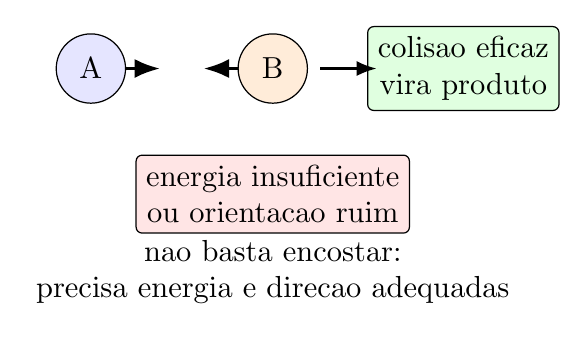
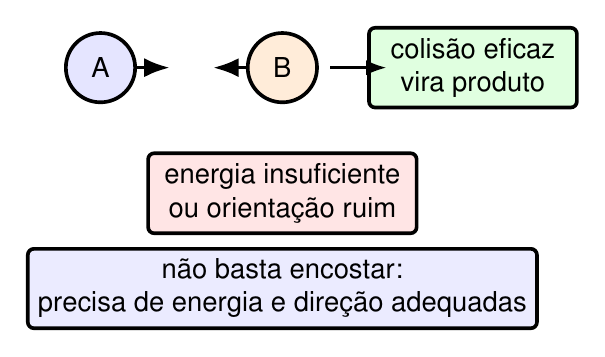
Padroniza regras visuais de TikZ didatico

Changed region(s): [[0.0307, 0.4106, 0.8908, 0.9384], [0.3379, 0.0587, 0.9829, 0.3519], [0.0922, 0.088, 0.2765, 0.3226]]

diff --git a/Quimica/9ano/unidade-4-velocidade-e-combustao/figuras_cap01_velocidade-das-reacoes.tex b/Quimica/9ano/unidade-4-velocidade-e-combustao/figuras_cap01_velocidade-das-reacoes.tex
@@ -1,31 +1,56 @@
 \documentclass[tikz,border=3mm,multi=tikzpicture]{standalone}
+\usepackage[utf8]{inputenc}
+\usepackage[T1]{fontenc}
+\usepackage{helvet}
+\renewcommand{\familydefault}{\sfdefault}
 \usepackage{tikz}
 \usetikzlibrary{arrows.meta,positioning,calc}
 \begin{document}
-\begin{tikzpicture}[>=Latex,node distance=0.9cm]
-  \tikzstyle{box}=[draw,rounded corners=2pt,very thick,minimum width=2.7cm,minimum height=0.8cm,align=center]
-  \node[box,fill=blue!10] (reag) {reagentes};
-  \node[box,fill=green!12,right=1.4cm of reag] (prod) {produtos};
-  \draw[very thick,->] (reag) -- (prod) node[midway,above] {tempo};
-  \node[box,fill=red!10,below=1.0cm of reag] (temp) {temperatura\\maior energia};
-  \node[box,fill=orange!12,right=0.5cm of temp] (conc) {concentracao\\mais particulas};
-  \node[box,fill=yellow!18,right=0.5cm of conc] (sup) {superficie\\mais contato};
-  \node[box,fill=purple!10,below=0.8cm of conc] (cat) {catalisador\\caminho mais facil};
-  \draw[thick,->] (temp.north) -- (reag.south);
-  \draw[thick,->] (conc.north) -- ($(reag)!0.5!(prod)$);
-  \draw[thick,->] (sup.north) -- (prod.south);
-  \draw[thick,->] (cat.north) -- (conc.south);
-  \node[align=center] at (2.2,-3.1) {fatores mudam a frequencia e a eficacia das colisoes};
+\begin{tikzpicture}[>=Latex,font=\sffamily\small]
+  \tikzstyle{head}=[font=\sffamily\bfseries\small,align=center]
+  \tikzstyle{factor}=[draw,rounded corners=2pt,very thick,minimum width=2.9cm,minimum height=0.78cm,align=center]
+  \tikzstyle{effect}=[draw,rounded corners=2pt,thick,minimum width=3.4cm,minimum height=0.78cm,align=center,fill=gray!8]
+  \tikzstyle{result}=[draw,rounded corners=2pt,very thick,minimum width=3.1cm,minimum height=0.78cm,align=center,fill=green!12]
+
+  \node[head] at (0,0.85) {fator};
+  \node[head] at (3.8,0.85) {o que muda};
+  \node[head] at (7.6,0.85) {efeito na reação};
+
+  \node[factor,fill=red!10] (temp) at (0,0) {temperatura};
+  \node[effect] (tempE) at (3.8,0) {partículas com\\mais energia};
+  \node[result] (tempR) at (7.6,0) {mais colisões\\eficazes};
+
+  \node[factor,fill=orange!12] (conc) at (0,-1.15) {concentração};
+  \node[effect] (concE) at (3.8,-1.15) {mais partículas\\por volume};
+  \node[result] (concR) at (7.6,-1.15) {mais encontros\\entre partículas};
+
+  \node[factor,fill=yellow!18] (sup) at (0,-2.30) {superfície};
+  \node[effect] (supE) at (3.8,-2.30) {maior área\\exposta};
+  \node[result] (supR) at (7.6,-2.30) {mais contato\\com reagentes};
+
+  \node[factor,fill=purple!10] (cat) at (0,-3.45) {catalisador};
+  \node[effect] (catE) at (3.8,-3.45) {menor energia\\de ativação};
+  \node[result] (catR) at (7.6,-3.45) {caminho\\mais fácil};
+
+  \foreach \a/\b/\c in {temp/tempE/tempR,conc/concE/concR,sup/supE/supR,cat/catE/catR}{
+    \draw[->,thick] (\a) -- (\b);
+    \draw[->,thick] (\b) -- (\c);
+  }
+
+  \node[draw,rounded corners=2pt,fill=blue!8,very thick,align=center,minimum width=6.2cm,minimum height=0.75cm]
+    at (3.8,-4.65) {em geral, aumenta a velocidade quando cresce o número de colisões eficazes};
 \end{tikzpicture}
 
-\begin{tikzpicture}[x=1cm,y=1cm,>=Latex]
-  \node[draw,circle,fill=blue!10,minimum size=0.8cm] (a) at (0,0.8) {A};
-  \node[draw,circle,fill=orange!15,minimum size=0.8cm] (b) at (2.1,0.8) {B};
+\begin{tikzpicture}[x=1cm,y=1cm,>=Latex,every node/.style={font=\sffamily\small}]
+  \tikzstyle{particle}=[draw,circle,very thick,minimum size=0.8cm,align=center]
+  \tikzstyle{box}=[draw,rounded corners=2pt,very thick,align=center,minimum height=0.78cm]
+  \node[particle,fill=blue!10] (a) at (0,0.8) {A};
+  \node[particle,fill=orange!15] (b) at (2.1,0.8) {B};
   \draw[->,very thick] (a) -- (0.8,0.8);
   \draw[->,very thick] (b) -- (1.3,0.8);
-  \node[draw,rounded corners=2pt,fill=green!12,align=center] at (4.3,0.8) {colisao eficaz\\vira produto};
+  \node[box,fill=green!12,minimum width=2.4cm] at (4.3,0.8) {colisão eficaz\\vira produto};
   \draw[->,thick] (2.65,0.8) -- (3.3,0.8);
-  \node[draw,rounded corners=2pt,fill=red!10,align=center] at (2.1,-0.65) {energia insuficiente\\ou orientacao ruim};
-  \node[align=center] at (2.1,-1.55) {nao basta encostar:\\precisa energia e direcao adequadas};
+  \node[box,fill=red!10,minimum width=3.1cm] at (2.1,-0.65) {energia insuficiente\\ou orientação ruim};
+  \node[box,fill=blue!8,minimum width=4.3cm] at (2.1,-1.75) {não basta encostar:\\precisa de energia e direção adequadas};
 \end{tikzpicture}
 \end{document}

diff --git a/_tools/auditar_tikz_didatico.py b/_tools/auditar_tikz_didatico.py
@@ -1,0 +1,77 @@
+#!/usr/bin/env python3
+"""Auditoria leve de padrões visuais em fontes TikZ ativas.
+
+Este script não substitui revisão visual do PNG. Ele apenas encontra sinais
+rápidos de risco antes da revisão humana: falta de fonte sans-serif e palavras
+comuns em português sem acento em rótulos didáticos.
+"""
+
+from __future__ import annotations
+
+from pathlib import Path
+
+
+ROOT = Path(__file__).resolve().parents[1]
+
+PALAVRAS_SEM_ACENTO = {
+    "ativacao": "ativação",
+    "colisao": "colisão",
+    "concentracao": "concentração",
+    "direcao": "direção",
+    "distancia": "distância",
+    "eficacia": "eficácia",
+    "facil": "fácil",
+    "frequencia": "frequência",
+    "moleculas": "moléculas",
+    "nao": "não",
+    "orientacao": "orientação",
+    "particulas": "partículas",
+    "posicao": "posição",
+    "reacao": "reação",
+    "superficie": "superfície",
+}
+
+
+def fontes_tikz() -> list[Path]:
+    return sorted(
+        p
+        for p in ROOT.glob("**/figuras_cap*.tex")
+        if "_legado" not in p.parts
+    )
+
+
+def tem_fonte_sans(texto: str) -> bool:
+    marcadores = ("\\sffamily", "helvet", "sfdefault", "font=\\sffamily", "every node/.style={font=\\sffamily")
+    return any(m in texto for m in marcadores)
+
+
+def main() -> int:
+    problemas = 0
+    for path in fontes_tikz():
+        texto = path.read_text(encoding="utf-8", errors="replace")
+        achados: list[str] = []
+
+        if not tem_fonte_sans(texto):
+            achados.append("fonte-sans-ausente")
+
+        lower = texto.lower()
+        sem_acento = [
+            f"{sem}->{com}"
+            for sem, com in PALAVRAS_SEM_ACENTO.items()
+            if sem in lower and com not in lower
+        ]
+        if sem_acento:
+            achados.append("possivel-acento: " + ", ".join(sem_acento))
+
+        if achados:
+            problemas += 1
+            rel = path.relative_to(ROOT)
+            print(f"{rel}: {'; '.join(achados)}")
+
+    print(f"\nfontes analisadas: {len(fontes_tikz())}")
+    print(f"fontes com alerta: {problemas}")
+    return 1 if problemas else 0
+
+
+if __name__ == "__main__":
+    raise SystemExit(main())

diff --git a/_tools/PLANO_REVISAO_TIKZ_DIDATICO.md b/_tools/PLANO_REVISAO_TIKZ_DIDATICO.md
@@ -1,0 +1,61 @@
+# Plano de Revisão Visual TikZ Didático
+
+## Objetivo
+
+Revisar todas as imagens TikZ ativas do repositório para aplicar o padrão visual didático definido em `_tools/CONVENCAO_TIKZ.md`: acentuação correta, fonte sans-serif, hierarquia visual clara, cores funcionais, layout pesquisado e PNG renderizado sem sobreposição.
+
+## Escopo inicial
+
+- Fontes TikZ ativas: `figuras_cap*.tex` fora de `_legado/`.
+- PNGs ativos: `*/figuras/*_tikz-*.png` fora de `_legado/`.
+- Levantamento atual: 61 fontes TikZ e 159 PNGs ativos.
+
+## Ordem de execução
+
+1. Inventariar as figuras por disciplina, ano, unidade e capítulo.
+2. Rodar `_tools/auditar_tikz_didatico.py` para localizar riscos rápidos: fonte não padronizada e palavras comuns sem acento.
+3. Para cada família de diagrama, pesquisar uma referência visual antes de redesenhar:
+   - comparação de fatores: matriz/grade;
+   - processo: fluxo linear;
+   - ciclo: diagrama circular;
+   - classificação: árvore/hierarquia;
+   - gráfico: eixo/escala;
+   - estrutura: esquema rotulado.
+4. Ajustar o `.tex` com:
+   - fonte sans-serif;
+   - acentuação correta em português;
+   - rótulos curtos;
+   - alinhamento em grade;
+   - cores com função;
+   - sem setas cruzadas;
+   - sem texto sobreposto.
+5. Renderizar novamente os PNGs.
+6. Revisar visualmente os PNGs renderizados.
+7. Validar que os links raw dos capítulos apontam para PNGs existentes.
+8. Commitar por lote de disciplina para reduzir risco e facilitar revisão.
+
+## Critérios de aceite por figura
+
+- O PNG renderizado está legível em tamanho normal de apostila.
+- Nenhum texto fica fora da caixa ou sobre outro elemento.
+- Não há setas cruzadas ou ambíguas.
+- Todas as palavras em português estão acentuadas corretamente.
+- A fonte dos rótulos é sans-serif.
+- A imagem usa no máximo a complexidade necessária para explicar o conceito.
+- A hierarquia visual distingue título, fator/etapa, explicação e resultado.
+- O Markdown do capítulo referencia o PNG correto por URL raw.
+
+## Lotes sugeridos
+
+1. Química unidade 4, porque já iniciou o novo padrão.
+2. Física unidade 4, por ter muitos diagramas conceituais e de circuito.
+3. Biologia unidade 4, por ter esquemas de processos e genética.
+4. Geometria unidade 4, por ter maior volume de figuras e maior risco de inconsistência visual.
+5. Demais disciplinas com TikZ ativo.
+
+## Observações operacionais
+
+- Não alterar conteúdo conceitual junto com redesenho visual, salvo erro evidente.
+- Se uma figura já estiver clara, apenas padronizar fonte/acentos/renderização.
+- Se uma figura estiver confusa, redesenhar a partir do objetivo pedagógico, não remendar o layout antigo.
+- Após cada lote, rodar validação de links raw e revisar `git diff --stat`.

diff --git a/_tools/CONVENCAO_TIKZ.md b/_tools/CONVENCAO_TIKZ.md
@@ -116,6 +116,52 @@ Use no `.tex`:
 - **Reuso**: se a mesma figura aparece em capítulos diferentes (ex.: eixo cartesiano simples), referencie o mesmo PNG nos dois `.md`.
 - **Acessibilidade**: sempre escreva `alt text` descritivo no `![alt](...)` do markdown.
 
+## Padrão visual didático obrigatório
+
+Antes de criar ou redesenhar qualquer TikZ didático, faça uma busca rápida por referências do tipo de diagrama que será usado. A decisão visual deve seguir o objetivo pedagógico, não a aparência:
+
+| Objetivo pedagógico | Padrão preferencial |
+|---|---|
+| Comparar fatores, propriedades ou efeitos | matriz/tabela visual em grade |
+| Mostrar processo sequencial | fluxo linear em uma direção |
+| Mostrar causa e consequência | cadeia causal esquerda → direita |
+| Mostrar ciclo | ciclo circular com poucas etapas |
+| Mostrar classificação | árvore ou mapa hierárquico |
+| Mostrar grandezas matemáticas | eixo, gráfico ou escala |
+| Mostrar estrutura química/física | esquema rotulado com setas mínimas |
+
+Regras visuais obrigatórias:
+
+- Usar **acentuação correta em português** em todos os rótulos do TikZ. A exceção continua sendo apenas texto dentro de `$$...$$`, que deve evitar acentos por compatibilidade com AutoLaTeX/CodeCogs.
+- Usar fonte **sans-serif** nos rótulos dos diagramas. Nos arquivos standalone, incluir:
+
+```latex
+\usepackage[utf8]{inputenc}
+\usepackage[T1]{fontenc}
+\usepackage{helvet}
+\renewcommand{\familydefault}{\sfdefault}
+```
+
+e aplicar `font=\sffamily\small` ou `every node/.style={font=\sffamily\small}` no `tikzpicture`.
+- Manter fluxo de leitura único: esquerda → direita ou cima → baixo. Não misturar direções no mesmo diagrama.
+- Evitar setas cruzadas, diagonais longas desnecessárias e linhas passando por texto.
+- Usar rótulos curtos, com quebras de linha controladas.
+- Garantir espaço em branco entre caixas, títulos e legendas.
+- Usar cores com função didática: categoria, etapa, contraste ou resultado. Não usar cor como enfeite.
+- Revisar o PNG renderizado, não apenas o `.tex`, antes de considerar a figura pronta.
+- Se o PNG parecer "embolado", substituir o desenho por um padrão mais simples, normalmente matriz/grade ou fluxo linear.
+
+Checklist de aprovação visual:
+
+- O aluno sabe onde começar a leitura?
+- A imagem segue uma direção de leitura previsível?
+- Alguma caixa encosta ou passa sobre texto?
+- Há setas cruzadas ou ambíguas?
+- Os textos têm acentuação correta?
+- A fonte combina com o material impresso/digital?
+- A figura explica algo que seria pior só em texto?
+- O conceito central fica mais claro em até 10 segundos?
+
 ---
 
 ## Limites editoriais

diff --git a/Quimica/_autor/CLAUDE.md b/Quimica/_autor/CLAUDE.md
@@ -6,6 +6,10 @@
 
 ---
 
+## Regra global para TikZ didático
+
+Antes de criar ou alterar qualquer imagem TikZ, aplicar o padrão de `_tools/CONVENCAO_TIKZ.md`: pesquisar referência visual para o tipo de diagrama, usar fonte sans-serif, manter acentuação correta em português, organizar a leitura em fluxo único, evitar setas cruzadas/sobreposição e revisar o PNG renderizado antes de considerar a figura pronta.
+
 ## Identidade editorial de Química
 
 Material **expositivo-conceitual** para EF II (6º–9º ano) e Ensino Médio (1ª, 2ª e 3ª séries). O capítulo apresenta conceitos químicos com rigor científico, ancorando-os no cotidiano e em fenômenos observáveis, e fecha com aplicações práticas, conexão bíblica e síntese tabular. **Não é material de exercícios** — exercícios resolvidos aparecem **dentro** dos subtópicos quando a complexidade exige cálculo, mas não há bloco "Sua Parte" nem listas de exercícios ao final.

diff --git a/Matematica/_autor/CLAUDE.md b/Matematica/_autor/CLAUDE.md
@@ -6,6 +6,10 @@
 
 ---
 
+## Regra global para TikZ didático
+
+Antes de criar ou alterar qualquer imagem TikZ, aplicar o padrão de `_tools/CONVENCAO_TIKZ.md`: pesquisar referência visual para o tipo de diagrama, usar fonte sans-serif, manter acentuação correta em português, organizar a leitura em fluxo único, evitar setas cruzadas/sobreposição e revisar o PNG renderizado antes de considerar a figura pronta.
+
 ## Identidade editorial de Matemática 1
 
 Material **expositivo-aplicado** — conceito → explicação → exemplo resolvido. O capítulo apresenta o conceito de forma direta, mostra a fórmula em LaTeX (quando houver) e resolve **exercícios passo a passo** integrados ao fluxo. Não é caderno de exercícios livres — os exercícios resolvidos servem para o aluno **ver a progressão do cálculo**, não para praticar (a prática mora em outro material).

diff --git a/Biologia/_autor/CLAUDE.md b/Biologia/_autor/CLAUDE.md
@@ -6,6 +6,10 @@
 
 ---
 
+## Regra global para TikZ didático
+
+Antes de criar ou alterar qualquer imagem TikZ, aplicar o padrão de `_tools/CONVENCAO_TIKZ.md`: pesquisar referência visual para o tipo de diagrama, usar fonte sans-serif, manter acentuação correta em português, organizar a leitura em fluxo único, evitar setas cruzadas/sobreposição e revisar o PNG renderizado antes de considerar a figura pronta.
+
 ## Identidade editorial de Biologia
 
 Material **expositivo-investigativo** para 9º ano EF II e Ensino Médio (1ª, 2ª e 3ª séries). O capítulo apresenta conceitos biológicos com rigor científico, ancora no cotidiano do aluno (corpo humano, natureza, biotecnologia) e fecha com aplicação prática + ancoragem cristã na **mordomia da criação** — **não é material de exercícios**. As atividades vivem em outro material.

diff --git a/Historia/_autor/CLAUDE.md b/Historia/_autor/CLAUDE.md
@@ -9,6 +9,10 @@
 
 ---
 
+## Regra global para TikZ didático
+
+Antes de criar ou alterar qualquer imagem TikZ, aplicar o padrão de `_tools/CONVENCAO_TIKZ.md`: pesquisar referência visual para o tipo de diagrama, usar fonte sans-serif, manter acentuação correta em português, organizar a leitura em fluxo único, evitar setas cruzadas/sobreposição e revisar o PNG renderizado antes de considerar a figura pronta.
+
 ## Identidade editorial de História
 
 Material **narrativo-cristão** para Ensino Médio. O capítulo conta um arco histórico, ancora a leitura cristã do mundo (sem cristianização forçada da história), explora múltiplos fios temporais e provoca o aluno a pensar criticamente sobre causa, consequência e conexão entre passado e presente — **não é material de exercícios**. As atividades vivem em outro material.

diff --git a/Geografia/_autor/CLAUDE.md b/Geografia/_autor/CLAUDE.md
@@ -10,6 +10,10 @@
 
 ---
 
+## Regra global para TikZ didático
+
+Antes de criar ou alterar qualquer imagem TikZ, aplicar o padrão de `_tools/CONVENCAO_TIKZ.md`: pesquisar referência visual para o tipo de diagrama, usar fonte sans-serif, manter acentuação correta em português, organizar a leitura em fluxo único, evitar setas cruzadas/sobreposição e revisar o PNG renderizado antes de considerar a figura pronta.
+
 ## Identidade editorial de Geografia
 
 Material **expositivo-analítico-espacial** para Ensino Médio. O capítulo apresenta conceitos geográficos, ancora-os em **lugares concretos** (topônimos, paisagens, fronteiras), articula **escalas** (local–regional–nacional–global) e provoca leitura crítica do espaço — **não é material de exercícios**. As atividades vivem em outro material.

diff --git a/Estudos Sociais/_autor/CLAUDE.md b/Estudos Sociais/_autor/CLAUDE.md
@@ -6,6 +6,10 @@
 
 ---
 
+## Regra global para TikZ didático
+
+Antes de criar ou alterar qualquer imagem TikZ, aplicar o padrão de `_tools/CONVENCAO_TIKZ.md`: pesquisar referência visual para o tipo de diagrama, usar fonte sans-serif, manter acentuação correta em português, organizar a leitura em fluxo único, evitar setas cruzadas/sobreposição e revisar o PNG renderizado antes de considerar a figura pronta.
+
 ## Identidade editorial de Estudos Sociais e História
 
 Material **expositivo-narrativo** integrando História + Geografia + cidadania (Estudos Sociais, EF I e EF II) e História formal (EM). O capítulo conta um arco narrativo, contextualiza personagens históricos e ancora a leitura cristã do mundo — **não é material de exercícios**. As atividades vivem em outro material.

diff --git a/Estatistica e Educacao Financeira/_autor/CLAUDE.md b/Estatistica e Educacao Financeira/_autor/CLAUDE.md
@@ -6,6 +6,10 @@
 
 ---
 
+## Regra global para TikZ didático
+
+Antes de criar ou alterar qualquer imagem TikZ, aplicar o padrão de `_tools/CONVENCAO_TIKZ.md`: pesquisar referência visual para o tipo de diagrama, usar fonte sans-serif, manter acentuação correta em português, organizar a leitura em fluxo único, evitar setas cruzadas/sobreposição e revisar o PNG renderizado antes de considerar a figura pronta.
+
 ## Identidade editorial de Matemática 3
 
 Material **didático-referencial** (apostila) para alunos de 6º ano EF II até 3ª série EM. O capítulo apresenta conceitos de **Estatística** e **Educação Financeira** com rigor matemático, dados reais e desenvolvimento algébrico apropriado à série. **Não é material de exercícios** — atividades vivem em outro material.

diff --git a/Fisica/_autor/CLAUDE.md b/Fisica/_autor/CLAUDE.md
@@ -6,6 +6,10 @@
 
 ---
 
+## Regra global para TikZ didático
+
+Antes de criar ou alterar qualquer imagem TikZ, aplicar o padrão de `_tools/CONVENCAO_TIKZ.md`: pesquisar referência visual para o tipo de diagrama, usar fonte sans-serif, manter acentuação correta em português, organizar a leitura em fluxo único, evitar setas cruzadas/sobreposição e revisar o PNG renderizado antes de considerar a figura pronta.
+
 ## Identidade editorial de Física
 
 Material **fenomenológico-matemático** para EF II (6º–9º) e Ensino Médio (1ª–3ª séries). O capítulo articula fenômeno observável → modelo físico → formalismo matemático, com nível de matematização progressivo por série (qualitativo no 6º–7º, fórmulas simples a partir do 8º, formalismo completo no EM).
